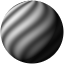
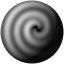
chore: consolidate workspace planet assets

diff --git a/.config/quickshell/topbar/Ui/Workspaces/Planet.qml b/.config/quickshell/topbar/Ui/Workspaces/Planet.qml
@@ -13,11 +13,10 @@ Item {
     property bool expanded: true
     property bool animateEntry: true
     readonly property bool textureReady: surface.status === Image.Ready || surface.status === Image.Error
-    readonly property bool originalPlanets: Config.workspaces.planetSet === "original"
-    readonly property var appearance: Surface.appearance(workspaceId, originalPlanets)
-    readonly property int imageIndex: (workspaceId - 1) % (originalPlanets ? 12 : 10) + 1
-    readonly property string imagePath: "Assets/" + (originalPlanets ? "original" : "expanded")
-        + "/planet-" + (imageIndex < 10 ? "00" : "0") + imageIndex + ".png"
+    readonly property var appearance: Surface.appearance(workspaceId, false)
+    readonly property int imageIndex: (workspaceId - 1) % 10 + 1
+    readonly property string imagePath: "Assets/original/planet-"
+        + (imageIndex < 10 ? "00" : "0") + imageIndex + ".png"
     signal activated()
     signal concealed()
 

diff --git a/.config/quickshell/topbar/Common/Config.qml b/.config/quickshell/topbar/Common/Config.qml
@@ -164,8 +164,7 @@ Singleton {
             // Hyprland owns which workspaces exist per monitor (the monitor
             // switcher scripts keep those rules current), so the bar just
             // renders what the compositor reports for its own screen.
-            scrollToSwitch: true,
-            planetSet: "expanded"
+            scrollToSwitch: true
         })
 
     readonly property var media: ({
